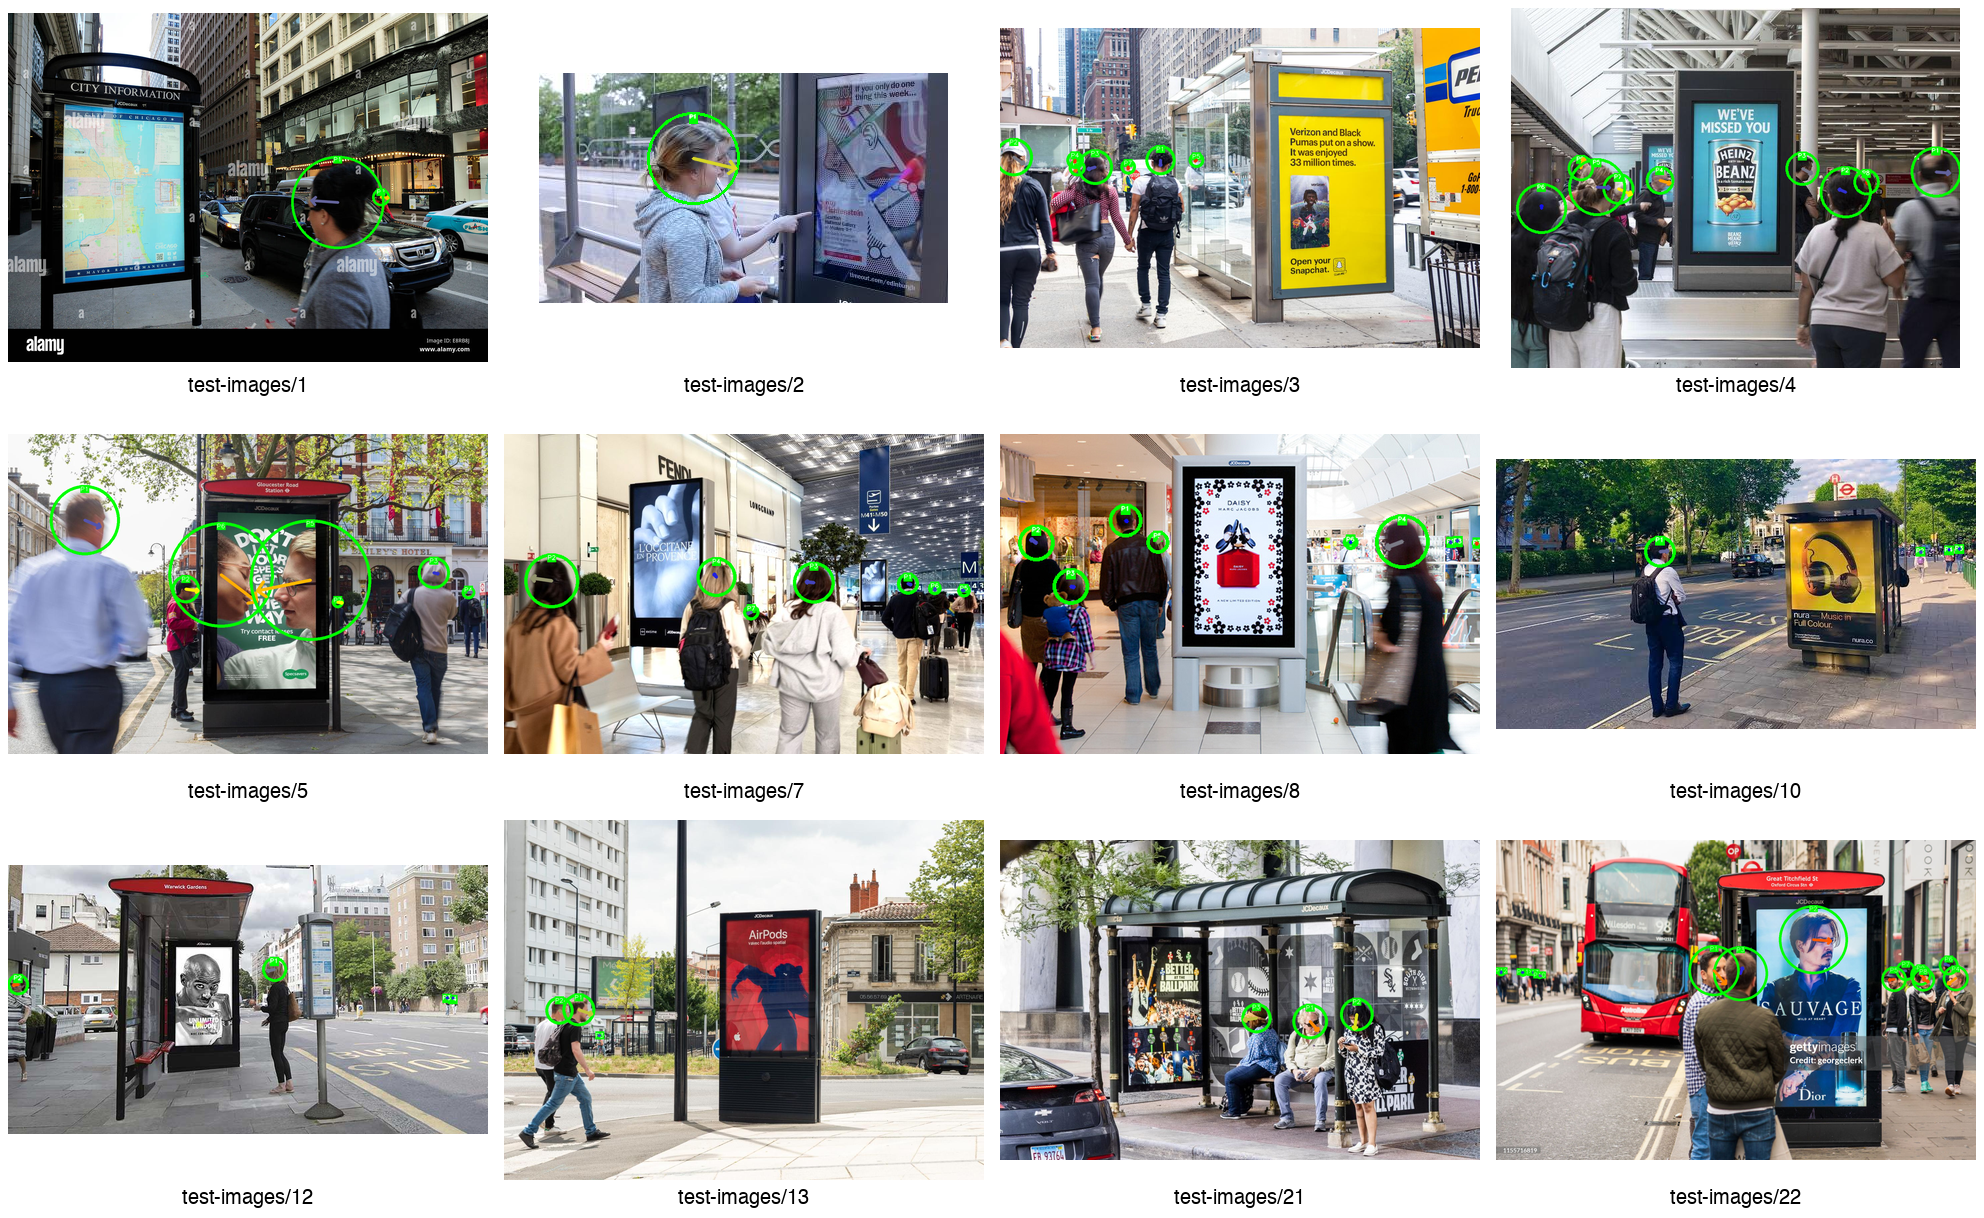
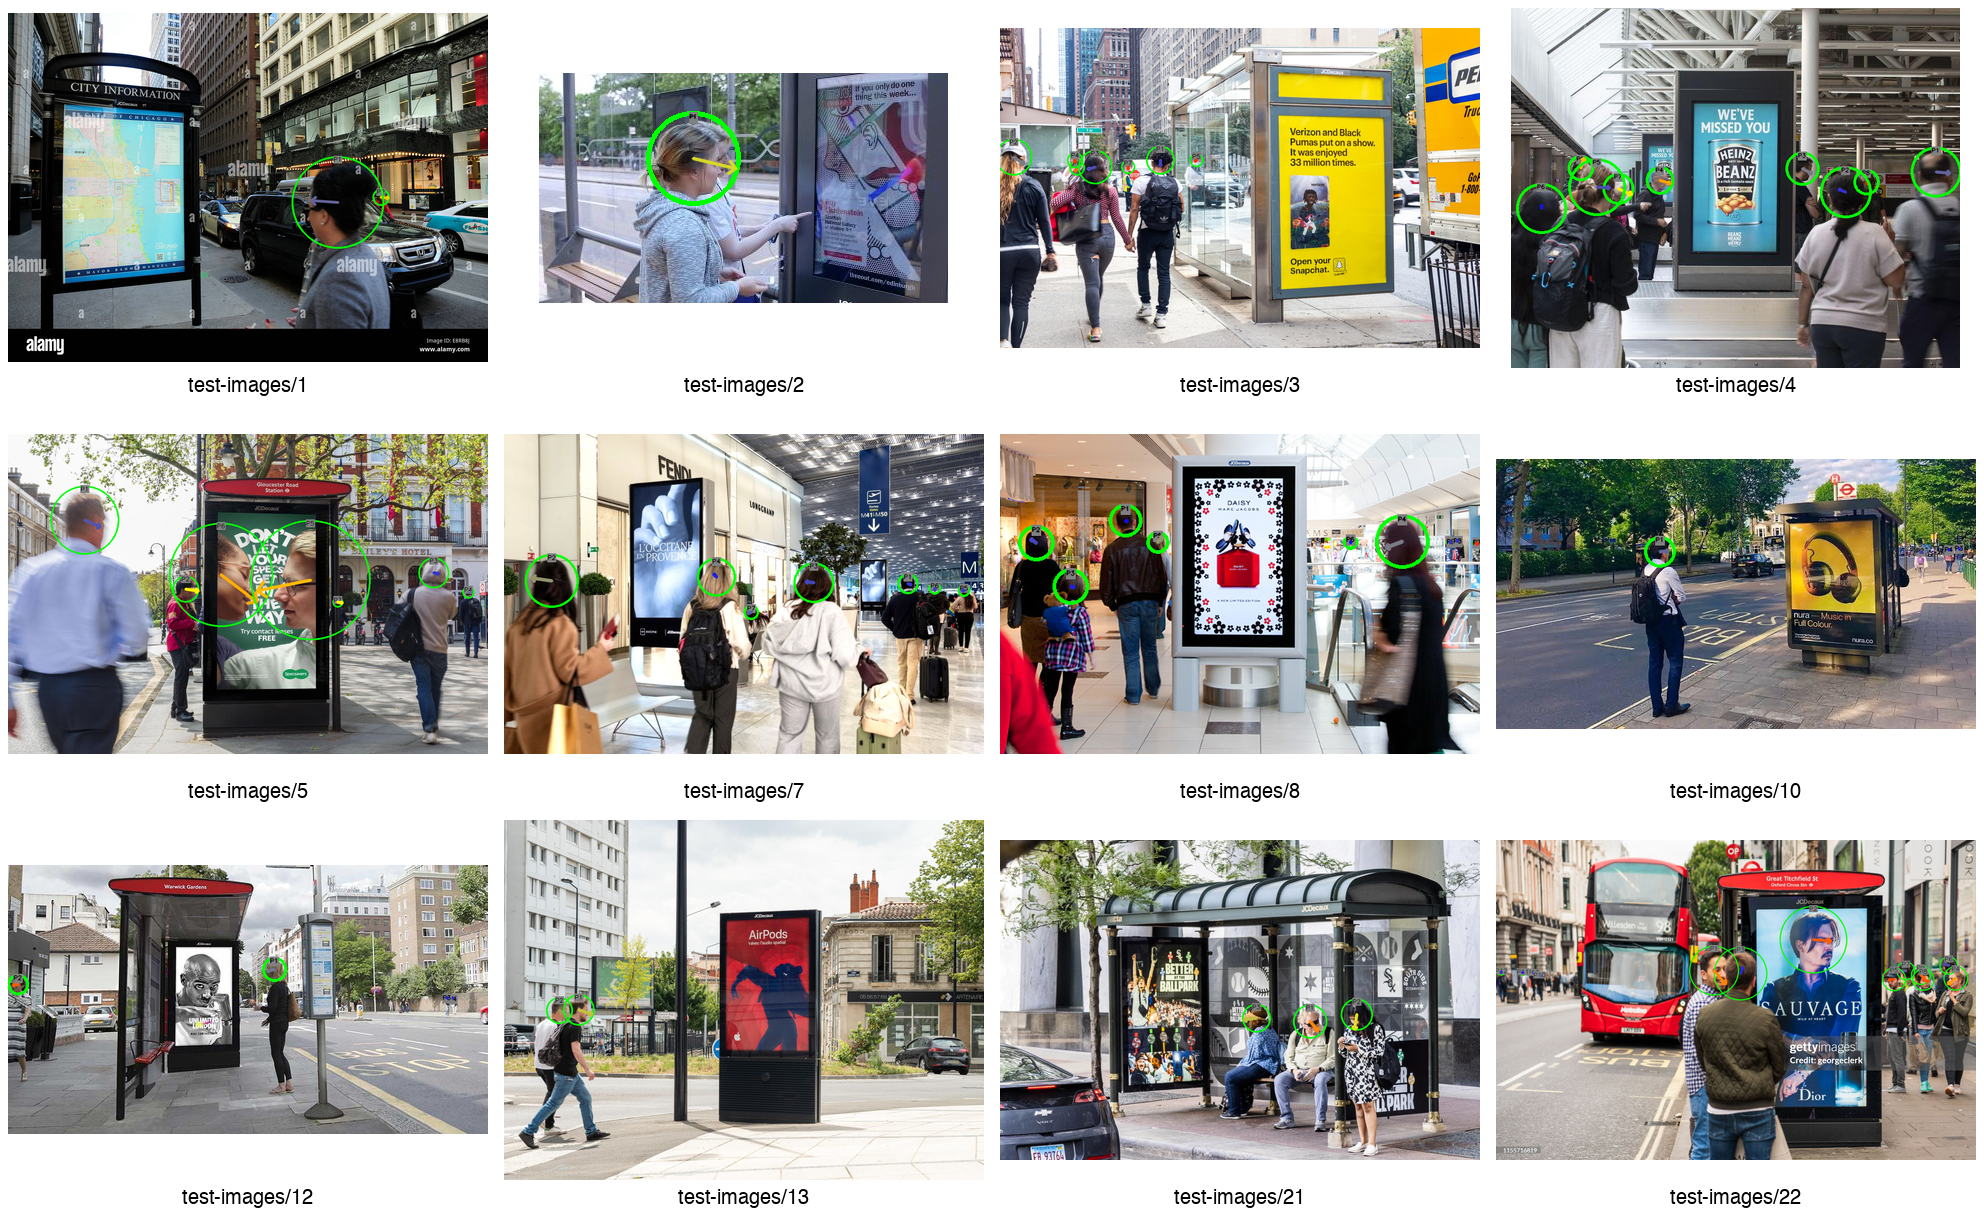
update the readme

diff --git a/demo.py b/demo.py
@@ -213,8 +213,8 @@ def draw_gaze(
     head_center = np.array([(xmin + xmax) // 2, (ymin + ymax) // 2])
     head_radius = max(xmax - xmin, ymax - ymin) // 2
     head_radius = int(head_radius * 1.2)  # enlarge the head circle
-    color = (0, 0, 255)  # red in BGR format for OpenCV
-    cv2.circle(image, head_center, head_radius + 1, color, thickness)  # head circle
+    color = (0, 255, 0)  # red in BGR format for OpenCV
+    cv2.circle(image, head_center, head_radius + 1, color, 3)  # head circle
 
     # Draw header
     header_text = f"P{int(head_pid)}"
@@ -227,14 +227,14 @@ def draw_gaze(
         int(head_center[0] + w_text / 2),
         int(head_center[1] - head_radius - 1 + h_text + 5),
     )
-    cv2.rectangle(image, header_ul, header_br, (0, 0, 0), -1)  # header bbox
+    cv2.rectangle(image, header_ul, header_br, (128, 128, 128), -1)  # header bbox
     cv2.putText(
         image,
         header_text,
         (header_ul[0], int(head_center[1] - head_radius - 1 + h_text)),
         cv2.FONT_HERSHEY_SIMPLEX,
         fs,
-        (255, 255, 255),
+        (0, 0, 0),
         1,
         cv2.LINE_AA,
     )  # header text
@@ -470,8 +470,8 @@ class Gaze3DDemo:
                         gaze,
                         CMAP,
                         COLORS,
-                        thickness=10,
-                        thickness_gaze=10,
+                        thickness=2,
+                        thickness_gaze=5,
                         fs=0.8,
                     )
 

diff --git a/utils_demo.py b/utils_demo.py
@@ -135,7 +135,7 @@ class DemoImageData(Dataset):
         self.input_modality = identify_modality(input_file_path)
 
     def __len__(self):
-        return len(self.detected_head)
+        return len(self.detected_head)  
 
     def __getitem__(self, idx):
         if self.input_modality == "video":

diff --git a/README.md b/README.md
@@ -2,7 +2,7 @@
 
 1. Download the Omnivore repository from GitHub in setup.sh, as the original model-loading implementation is no longer working.
 
-The code replaces the original model-loading approach with:
+The code replaces the original model-loading approach:
 
 ```
  self.encoder = torch.hub.load("facebookresearch/omnivore", model="omnivore_swinT", pretrained=pretrained)
@@ -28,7 +28,7 @@ self.encoder = torch.hub.load(
 
 4. Update the arrow line color: deep red at the extreme "looking straight out at the viewer" end, yellow at the boundary (gaze parallel to the paper plane, z≈0), and blue at the extreme "looking straight into the paper/scene" end.
 
-# Usage: The usage is the same as in the original Gaze3D repository.
+# Usage: The usage is the same as the original Gaze3D repository
 
 1. First, we need to clone the repository
 
